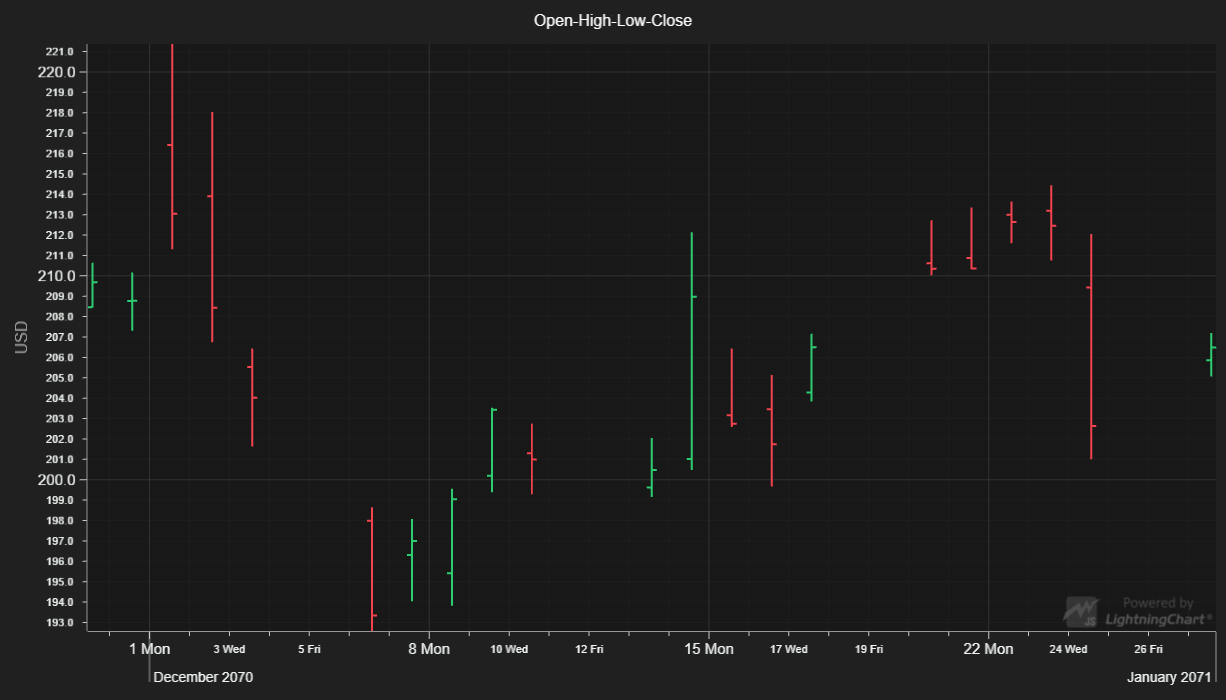
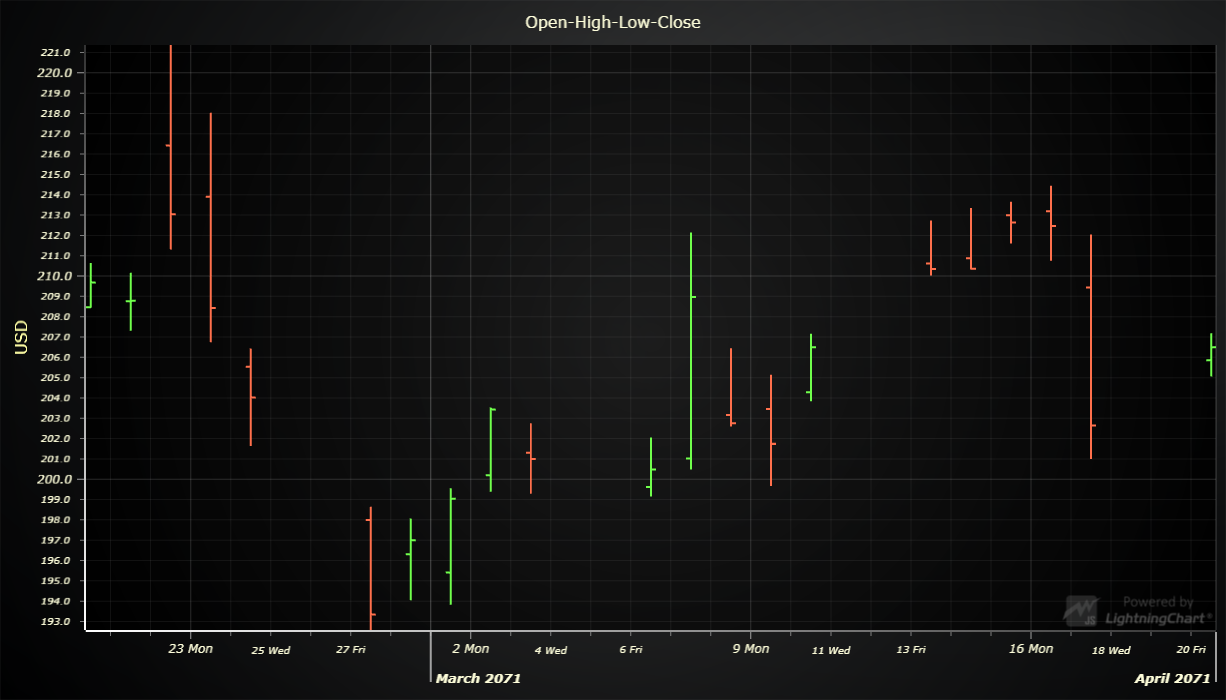
Update LCJS version

diff --git a/webpack.config.js b/webpack.config.js
@@ -69,7 +69,8 @@ module.exports = {
         }),
         new CopyWebpackPlugin({
             patterns: [
-                { from: './assets/**/*', to: './examples/assets', flatten: true, noErrorOnMissing: true }
+                { from: './assets/**/*', to: './examples/assets', flatten: true, noErrorOnMissing: true },
+                { from: './node_modules/@arction/lcjs/dist/resources', to: 'resources', noErrorOnMissing: true },
             ]
         })
     ]

diff --git a/src/index.js b/src/index.js
@@ -16,7 +16,7 @@ const {
 
 // Create a XY Chart.
 const chart = lightningChart().ChartXY({
-    // theme: Themes.dark
+    // theme: Themes.darkGold
 })
 // Use DateTime TickStrategy for the X Axis, set current date as the origin.
 chart

diff --git a/README.md b/README.md
@@ -140,11 +140,11 @@ Direct developer email support can be purchased through a [Support Plan][4] or b
 © Arction Ltd 2009-2020. All rights reserved.
 
 
-[XY cartesian chart]: https://www.arction.com/lightningchart-js-api-documentation/v3.0.1/classes/chartxy.html
-[Axis tick strategies]: https://www.arction.com/lightningchart-js-api-documentation/v3.0.1/globals.html#axistickstrategies
-[Scroll strategies]: https://www.arction.com/lightningchart-js-api-documentation/v3.0.1/globals.html#axisscrollstrategies
-[Figure types]: https://www.arction.com/lightningchart-js-api-documentation/v3.0.1/globals.html#ohlcfigures
-[OHLC series]: https://www.arction.com/lightningchart-js-api-documentation/v3.0.1/classes/chartxy.html#addohlcseries
-[XOHLC datastructure]: https://www.arction.com/lightningchart-js-api-documentation/v3.0.1/globals.html#xohlc
+[XY cartesian chart]: https://www.arction.com/lightningchart-js-api-documentation/v3.1.0/classes/chartxy.html
+[Axis tick strategies]: https://www.arction.com/lightningchart-js-api-documentation/v3.1.0/globals.html#axistickstrategies
+[Scroll strategies]: https://www.arction.com/lightningchart-js-api-documentation/v3.1.0/globals.html#axisscrollstrategies
+[Figure types]: https://www.arction.com/lightningchart-js-api-documentation/v3.1.0/globals.html#ohlcfigures
+[OHLC series]: https://www.arction.com/lightningchart-js-api-documentation/v3.1.0/classes/chartxy.html#addohlcseries
+[XOHLC datastructure]: https://www.arction.com/lightningchart-js-api-documentation/v3.1.0/globals.html#xohlc
 [OHLC generator]: https://arction.github.io/xydata/classes/ohlcgenerator.html
 
